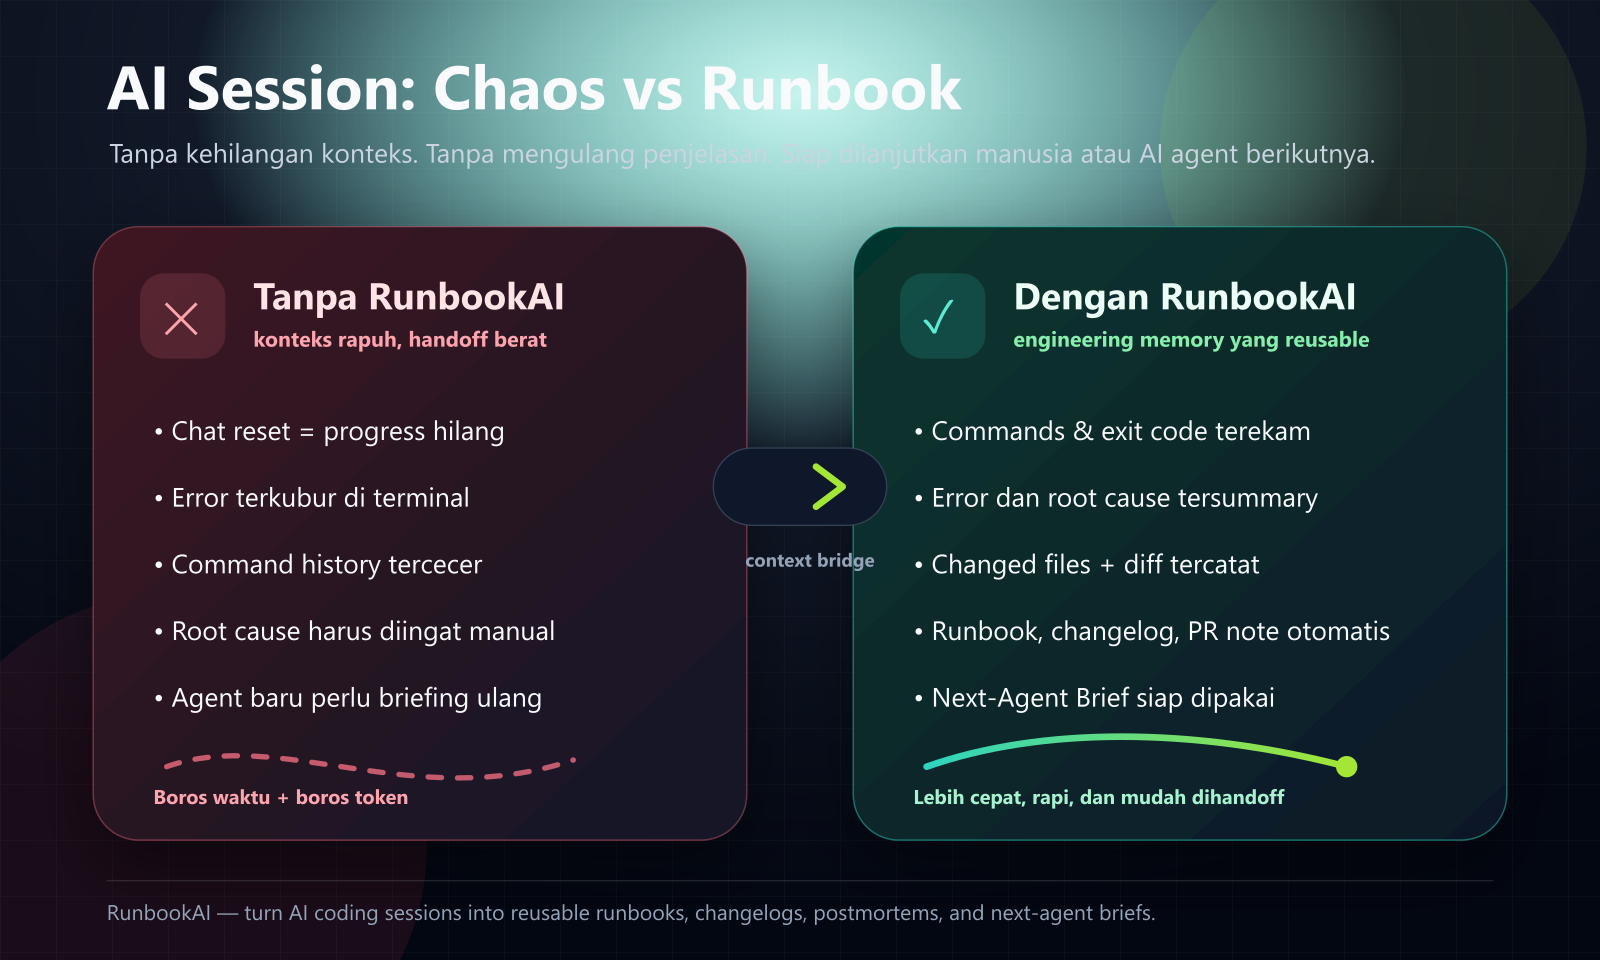
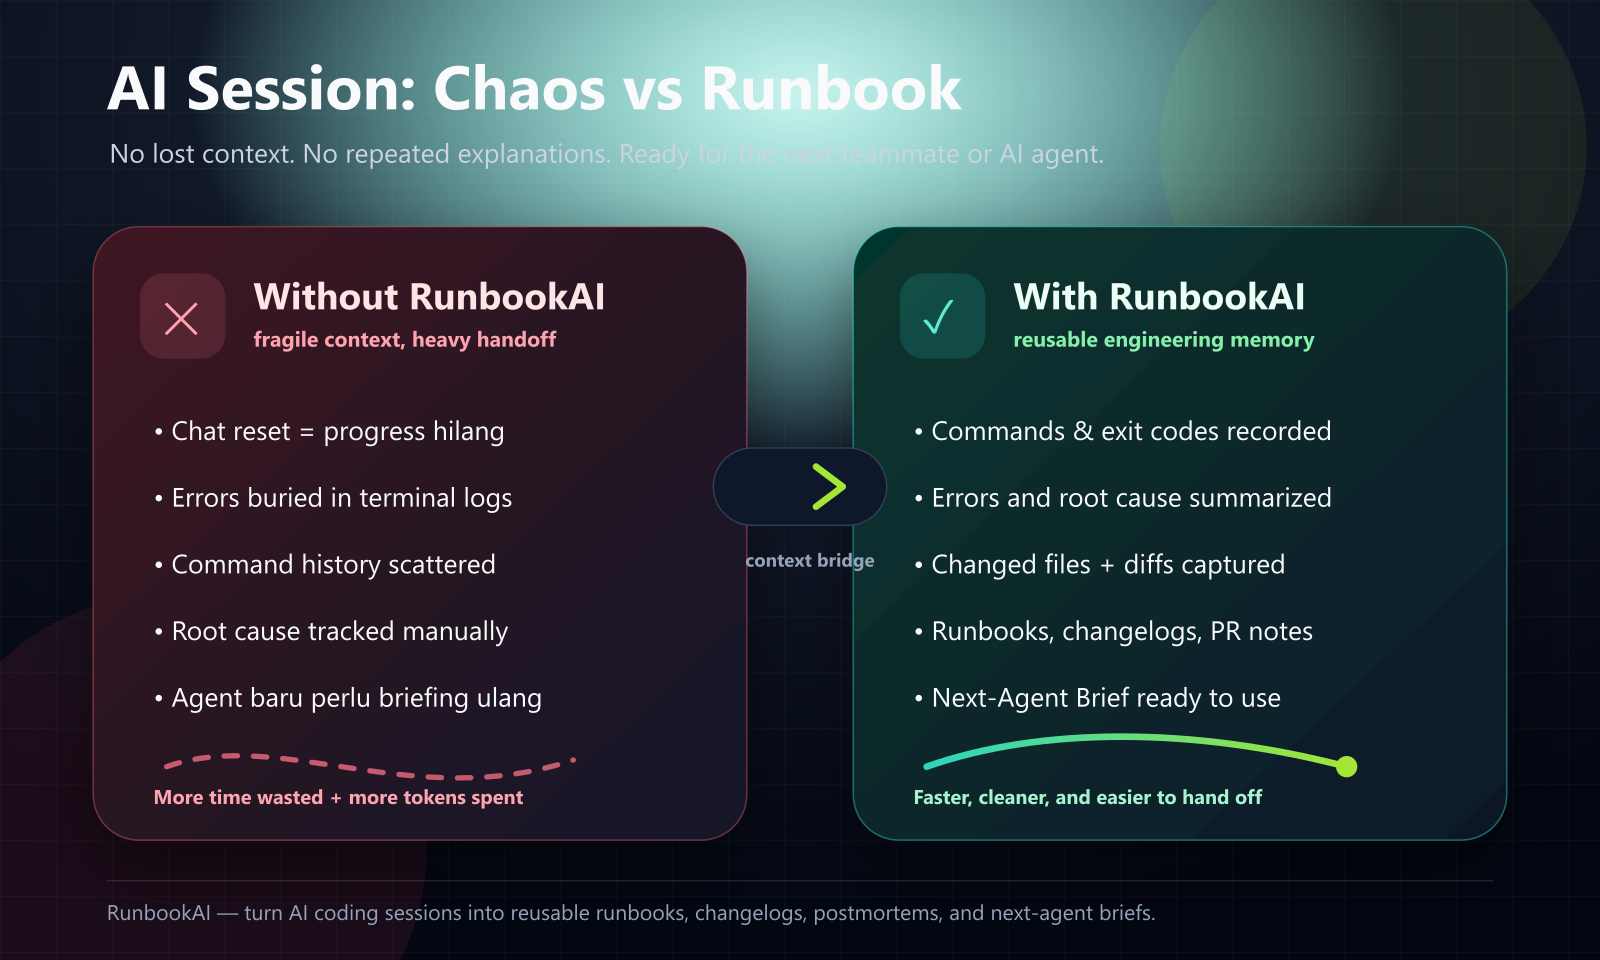
docs: add full changelog

diff --git a/CHANGELOG.md b/CHANGELOG.md
@@ -1,0 +1,117 @@
+# Changelog
+
+All notable changes in RunbookAI, from the first commit to the latest update.
+
+## 2026-06-05
+
+### `9d9d9bf` — docs: add visual comparison assets
+- Added visual comparison assets for RunbookAI:
+  - `docs/assets/runbook-comparison.svg`
+  - `docs/assets/runbook-comparison.png`
+  - `docs/assets/runbook-comparison.jpg`
+  - `docs/assets/runbook-comparison.mp4`
+- Displayed the comparison infographic in `README.md`.
+- Added README links to the PNG, JPG, and MP4 assets.
+
+### `2d52503` — docs: add runbook comparison
+- Added a README comparison table showing the difference between using RunbookAI and working without RunbookAI.
+- Covered session continuity, command history, error tracking, changed files, root cause capture, AI-agent handoff, team documentation, and token savings.
+
+## 2026-06-03
+
+### `695a508` — ci: publish release assets with gh
+- Updated the release workflow to publish build assets with GitHub CLI (`gh`).
+- This commit is tagged as the `v0.1.0` release.
+
+### `813c4be` — ci: attach release archives
+- Updated the release workflow so build archives are attached to GitHub Releases.
+
+### `091e58b` — ci: fix Rust toolchain action
+- Fixed the Rust toolchain configuration in CI and release workflows.
+
+### `82a6081` — docs: add v0.1.0 release notes
+- Added release notes for `v0.1.0` in `docs/releases/v0.1.0.md`.
+- Updated release workflow behavior around the release process.
+
+### `463d6f2` — ci: add release workflow
+- Added a GitHub Actions workflow for automated release builds.
+- Documented the tagged release process in the README.
+
+### `f4d2db3` — feat: improve diagnostics and shell support
+- Improved local environment diagnostics.
+- Enhanced shell support.
+- Updated the README, CLI, doctor module, and integration tests.
+
+### `0c8a100` — feat: add doctor command
+- Added the `runbookai doctor` command for local environment diagnostics.
+- Added JSON output support for the doctor command.
+- Added integration tests for doctor functionality.
+
+### `8aee713` — chore: clean docs and formatting
+- Cleaned up documentation and code formatting.
+- Refined several modules and integration tests.
+
+## 2026-06-02
+
+### `ba597e4` — feat: implement GitHub PR Description Generator (Phase 4)
+- Added the `runbookai generate pr` command.
+- Added a default PR description template with Summary, Changes, and Verification sections.
+- Integrated session notes such as Decisions and Risks into the PR template.
+- Updated the README and integration tests.
+
+### `dd8eae7` — feat: implement Full Shell Integration (No-Wrapper Recording)
+- Added the `shell-hook` command to generate Zsh/Bash integration scripts.
+- Added the `record` command for headless command-result recording.
+- Implemented `record_headless` logic for background logging.
+- Updated the README with shell integration instructions.
+
+### `a0635ee` — feat: implement MCP Server support (Phase 3)
+- Added an MCP module implementing JSON-RPC over stdio.
+- Added the `runbookai mcp serve` command.
+- Exposed `search_sessions` as an MCP tool.
+- Exposed session data as MCP resources using `runbook://sessions/<id>`.
+- Added a Claude Desktop configuration example to the README.
+
+### `ad654ce` — marketing: reposition as Context Insurance for AI token limits
+- Repositioned RunbookAI as “Context Insurance”.
+- Strengthened the “Universal Context Bridge” message for switching AI providers.
+- Updated the PRD, README, and Next-Agent Brief template.
+- Clarified messaging around context loss when an AI agent reaches its limit.
+
+### `7643609` — docs: update PRD to address token limits and context loss
+- Added problem-statement coverage for token exhaustion and session fragmentation.
+- Described RunbookAI as a Universal Context Bridge.
+- Added the high-fidelity Next-Agent Brief as a core product goal.
+
+### `dc61743` — feat: implement AI-Assisted Summaries (Phase 3)
+- Added the `ai` module with support for Ollama, OpenAI, and Gemini.
+- Added the `--ai` flag to the `generate` command.
+- Integrated AI summaries into runbook rendering.
+- Converted the entry point to async with Tokio.
+- Added `reqwest` and `tokio` dependencies.
+
+### `83b1a69` — feat: implement phase 2 core features
+- Added custom template support powered by Handlebars.
+- Added enhanced Git diff capture with redaction.
+- Added the `search` command for querying previous sessions.
+- Added the `alias` command for shell integration.
+- Updated the data model to store session diffs.
+- Confirmed all tests were passing at the time.
+
+### `2860ae8` — test: add integration tests and CI workflow
+- Added integration tests for secret redaction and export formats.
+- Added testing dev dependencies such as `assert_cmd` and `predicates`.
+- Added GitHub Actions CI for multi-platform testing.
+
+### `2efc231` — refactor: split monolithic main.rs into modular architecture
+- Split the monolithic `main.rs` into a modular architecture.
+- Added core modules for CLI, command handling, config, detection, export, Git integration, models, redaction, rendering, session management, and utilities.
+- Added 29 unit tests for redaction, detection, utilities, and rendering.
+- Fixed a Clippy warning by extracting a complex type into `DiffStats`.
+- Updated the README with project structure and project status.
+
+## 2026-05-29
+
+### `df2af10` — first commit
+- Initial project commit.
+- Added the first README as the documentation foundation for RunbookAI.

diff --git a/README.md b/README.md
@@ -48,6 +48,8 @@ Media assets: [PNG](docs/assets/runbook-comparison.png) · [JPG](docs/assets/run
 
 Early Rust MVP — modular, tested, and lint-clean.
 
+See the full project history in [CHANGELOG.md](CHANGELOG.md).
+
 Implemented:
 
 - Session lifecycle: `init`, `start`, `status`, `stop`